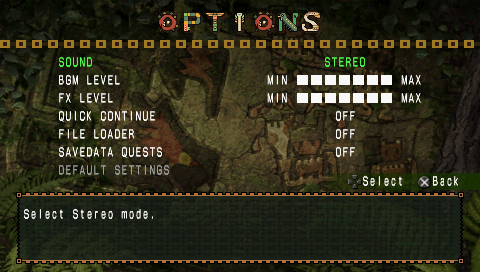
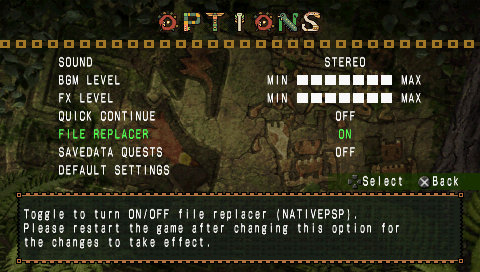
Updated Setup pages.

diff --git a/docs/whats_changed.md b/docs/whats_changed.md
@@ -19,6 +19,8 @@ Anything with <span class="label" style="background-color: #7253ed; color: white
 - TOC
 {:toc}
 
+---
+
 ### Features:
 {: .text-yellow-300 .fw-700 .pb-2 }
 
@@ -78,73 +80,3 @@ Anything with <span class="label" style="background-color: #7253ed; color: white
 * Wandering Chef NPC position fixed, no longer floats in the air and is more visible on game start.
 * Dummied strings for non-monsters now display properly when using HPD hack.
 {: .pl-6 .lh-tight }
-
-<!-- ### <ins>FUCTool:</ins>
-
-A new program called `FUCTool` is bundled with the patch to handle various aspects such as patching, updating the configuration file, setting up file replacer and injecting quests. To know more on how to use it please see the [FUCTool](https://github.com/FUComplete/FUCTool) repo.
-
-### <ins>Configuration:</ins>
-
-`CONFIG.BIN` is the configuration file loaded by the game to set specific features of the patch, these options are:
-
-* File replacer
-* Save region
-* True raw/element/status display
-* Dos audio
-* Field of view (FoV)
-* Vertical snap start position
-* Minimap scale
-* Hunting Horn tweak
-* Early kill Lao/Shen (Fortress)
-* Guildhall Full Chest (Offline)
-* Guildhall Drink Buff
-
-### <ins>File Replacer:</ins>
-
-File replacer, as its name implies, lets you replace individual files in the game that are stored in `ms0:/PSP/SAVEDATA/FUCDAT/NATIVEPSP`. Think of it like MHWs `nativePC` implementation.
-
-Please refer to the [FUCTool](https://github.com/FUComplete/FUCTool) repo for more information on how to set it up.
-
-### <ins>Changes:</ins>
-
-_**Quality of Life**_
-* The 38 events and 14 challenges are now built into the game. Savedata quest store limit has been raised to 18, up from 6.
-* The option to toggle Data Install now has a new function: It now switches between the integrated event quests and any quests added to Savedata.
-* The option to toggle Background Loading now has a new function: Can turn ON/OFF File Replacer.
-* All Bonus DLC are enabled by default.
-* Easily switch between what region save to load ***(optional/config)***.
-* Auto equipment previews in shops enabled by default without the requirement of a data install.
-* Faster pickup speed from supply chests.
-* Able to buy in bulk to chest the Binoculars, Powercharm, Armorcharm and BBQ Spit. Useful for decoration crafting.
-* You can now change your equipment in the Gathering Hall ***(optional/config)***.
-* Status display settings (the settings for enabling/disabling HUD in quest) are now persistent between quests.
-* Guildhall table now has a "drink buff" - This means you can get a quick boost to Health and Stamina without leaving the Gathering Hall, based on how many Felyne Chefs you have working in your kitchen. Press 'Circle' to activate while sitting at the table ***(optional/config)***.
-  - For each active chef in your kitchen, receive +10 max HP (max +50 at 5 chefs).
-  - For 1-4 active chefs in your kitchen, receive +25 max Stamina (max +50 at 5 chefs).
-* Display true raw/element/status of weapons ***(optional/config)***.
-* Adjust field of view value ***(optional/config)***.
-* Set starting vertical camera position ***(optional/config)***.
-* Adjust minimap scale ***(optional/config)***.
-* Able to gather/carve continuously by holding the button.
-
-_**Gameplay/Mechanic**_
-* Any quest with Lao-Shan Lung, Ash Lao-Shan Lung or Shen Gaoren on Fortress have their HP thresholds removed, allowing for a pre area 5 kill. ***(optional/config)***
-* Hunting Horn tweaks ***(optional/config)*** rework the weapon slightly to make it more approachable and rebuff it back to P2/F2 levels.
-  - Note mechanics work similar to Frontier, where notes only clear if you sheath your weapon or have a forced sheathed interaction.
-  - Left and right swing MV/KO values increased to match P2/F2 values. 31 MV and 18 KO, up from 27 MV and 15 KO.
-  - Hilt jab poke attack now does cutting damage instead of impact.
-  
-_**General/Other**_
-* Fixed various localization errors and updated menus to match.
-* Increased draw distance of NPCs in village.
-* Adjusted item wheel to match FU
-* Sharpness indicator and glow now uniform and fixed.
-* Fixed draw region of the "!" sprite to display properly.
-* Felyne on guildcard no longer has melynx ears.
-* Bowgun shells in HUD are now correctly aligned.
-* Guildcard elements fixed to avoid string overflows and better alignment.
-* Guildhall Shop NPC position fixed, feet no longer clip through the floor and now has a shadow.
-* Wandering Chef NPC position fixed, no longer floats in the air and is more visible on game start.
-* Dummied strings for non-monsters now display properly when using HPD hack.
-* ICON0 updated so you can easily tell the difference between patched/unpatched.
-* Use Dos battle themes instead of the default ones ***(optional/config)***. -->

diff --git a/docs/fuctool/file_replacer.md b/docs/fuctool/file_replacer.md
@@ -4,3 +4,62 @@ title: File Replacer
 nav_order: 2
 parent: Setup
 ---
+
+# File Replacer
+{: .text-yellow-300 .fw-500 .text-center .fs-8 .lh-default .no_toc }
+
+## Table of contents
+{: .no_toc .text-delta }
+
+- TOC
+{:toc}
+
+---
+
+## Setting up Mods
+{: .text-yellow-300 .fw-700 .text-center }
+<br>
+
+In the folder where you extracted the zip from [Step 1](/docs/setup.html/#step-1-download-latest-build-of-fucomplete), copy your mods to the `mods` folder. 
+
+Open `FUCTool` and go to the `File Replacer` tab, you should see your mods listed in the table below.
+
+{: .note }
+If you do not see your mods listed, please make sure the files are correctly name, the files are **case sensitive**.
+
+If your mods are listed correctly, press the `Generate NATIVEPSP` button to generate the folder. This folder will need to be copied to the `FUCDAT` folder located in your SAVEDATA
+
+```
+  .
+  └───PSP
+      └───SAVEDATA
+          ├───FUCDAT
+          │   └───NATIVEPSP
+          ├───ULES01213
+          ├───ULUS10391
+          └───ULJM05500
+```
+{: .lh-0 }
+
+
+
+| <a href="/assets/images/fuctool_mods1.png" target="_blank"><img src="/assets/images/fuctool_mods1.png"></a> | <a href="/assets/images/fuctool_mods2.png" target="_blank"><img src="/assets/images/fuctool_mods2.png"></a> |
+|:---:|:---:|
+| Copy mods to `mods` folder, you should see them in the table below | Press `Generate NATIVEPSP` and you should have a `NATIVEPSP` folder ready to place in `FUCDAT`. |
+
+---
+
+## Enabling Mods
+{: .text-yellow-300 .fw-700 .text-center }
+<br>
+
+There are 2 ways to enable mods:
+
+* Editing your `CONFIG.BIN` in `FUCTool` and set the `File Replacer` option to `Enable`.
+* Enable in-game by going to `Options` from `Main Menu` and enable `File Replacer`.
+
+Once enabled, restart the game for changes to take effect.
+
+| <a href="/assets/images/options_menu.png" target="_blank"><img src="/assets/images/options_menu.png"></a> | <a href="/assets/images/fuctool_mods3.png" target="_blank"><img src="/assets/images/fuctool_mods3.png"></a> |
+|:---:|:---:|
+| Go to `Options` under `Main Menu` and enable `File Replacer`.<br>**Restart your game.** | You should now see your mods working  |

diff --git a/docs/fuctool/custom_quests.md b/docs/fuctool/custom_quests.md
@@ -19,7 +19,7 @@ Just as a precaution, **ALWAYS** backup your save before injecting quests just i
 
 ---
 
-### Injecting Quests
+## Injecting Quests
 {: .text-yellow-300 .fw-700 .text-center }
 <br>
 
@@ -39,8 +39,8 @@ Press the `Select` button and select your save folder, it will be in `SAVEDATA` 
 
 Once you select your save folder you can now begin to backup/inject quests.
 
-* **To backup quests**: Click on each quest you wish to backup and press the `<---` button.
-* **To inject quests**: Click on each quest you wish to inject and press the `--->` button.
+* **To backup quests**: Click on each quest you wish to backup in the right table and press the `<---` button.
+* **To inject quests**: Click on each quest you wish to inject in the left table and press the `--->` button.
 {: .pl-6 }
 
 Once you are happy, hit the `Save` button to inject the quests.
@@ -56,7 +56,7 @@ Please **DO NOT** try to resave while you have the game running, this will corru
 
 ---
 
-### Loading Custom Quests In-game
+## Loading Custom Quests In-game
 {: .text-yellow-300 .fw-700 .text-center }
 <br>
 
